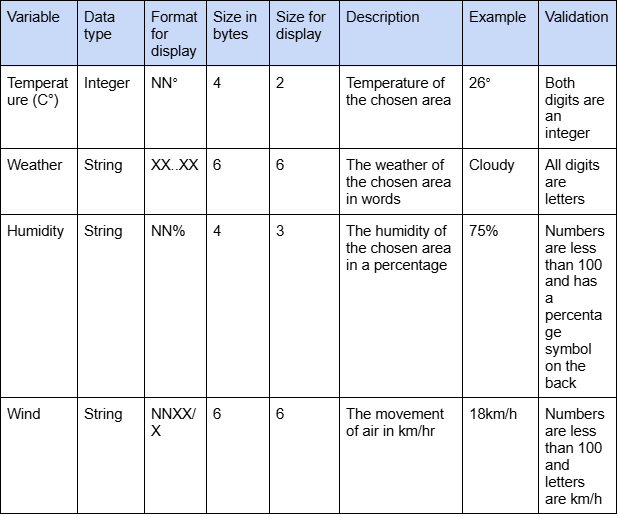
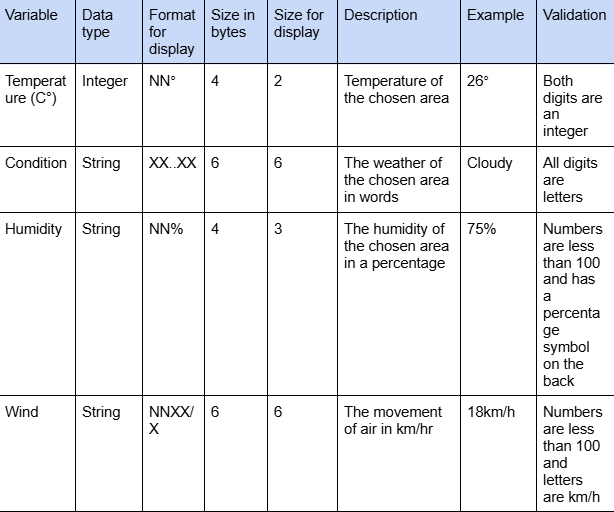
Lesson 8- 24/03/25
Today, I updated my gantt chart in excel and also changed my data dictionary a little bit from weather -> condition as it is more accurate. I worked on more of the coding and now if I enter any city, it provides me with the temperature and condition of the location but doesn't provide me an information on humidity and wind

Changed region(s): [[0.0, 0.0, 1.0, 1.0]]

diff --git a/main.py b/main.py
@@ -20,24 +20,28 @@ def display_weather_info(weather_data):
     Displays weather information from the API response.
     """
     if weather_data:
-        # Extract relevant data from the API response
         location = weather_data["location"]["name"]  
         region = weather_data["location"]["region"]  
         country = weather_data["location"]["country"]  
         temperature = weather_data["current"]["temp_c"]  
-        #weather = weather_data["current"]["weather"]["text"]  
-        #wind = weather_data["current"]["wind"]["__km/h"]
-        #humidity = weather_data["current"]["humidity"]["__%"]
+        condition = weather_data["current"]["condition"]["text"]
+        humidity = weather_data["current"]["humidity"]["int"]
+        wind_kph = weather_data["current"]["wind_kph"]["decimal"]
+
 
         print(f"Weather in {location}, {region}, {country}:")
         print(f"Temperature: {temperature}°C")
-        #print(f"Weather: {weather}")
-        #print(f"Wind: {wind}km/h")
-        #print(f"Humidity: {humidity}%")
+        print(f"Condition: {condition}")
+        print(f"Humidity: {humidity}%")
+        print(f"Wind: {wind_kph}km/h")
+    
     else:
         print("Error retrieving weather data.")
 
 def main():
-    display_weather_info(fetch_weather('Sydney'))
+    city =input("Enter city name: ")
+
+    display_weather_info(fetch_weather(city))
 
 main()
+
